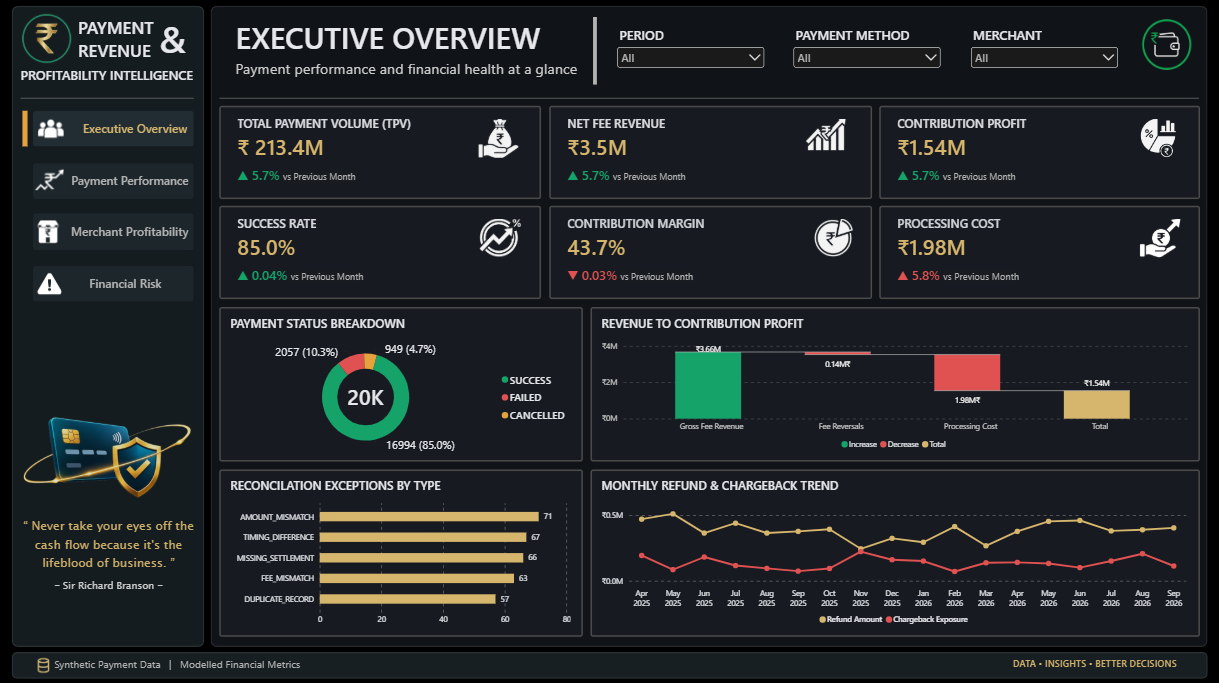
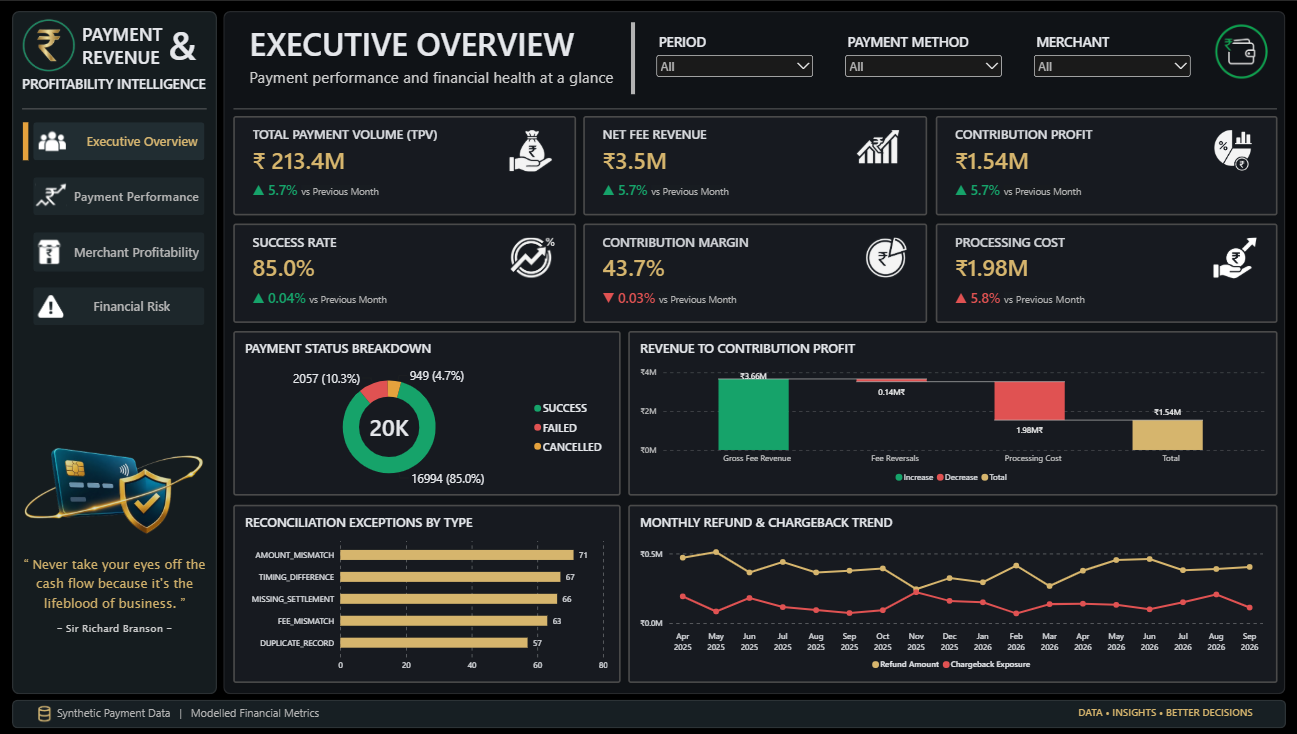
Updated the README.md

diff --git a/README.md b/README.md
@@ -20,9 +20,9 @@ The final Power BI solution contains four analytical pages.
 
 ![Merchant Profitability](dashboard_imgs/03_Merchant_Profitability.png)
 
-### 04 — Financial Risk & Reconcilation
+### 04 — Financial Risk & Reconciliation
 
-![Financial Risk & Reconcilation](dashboard_imgs/04_Financial_Risk.png)
+![Financial Risk & Reconciliation](dashboard_imgs/04_Financial_Risk.png)
 
 
 ## Business Problem
